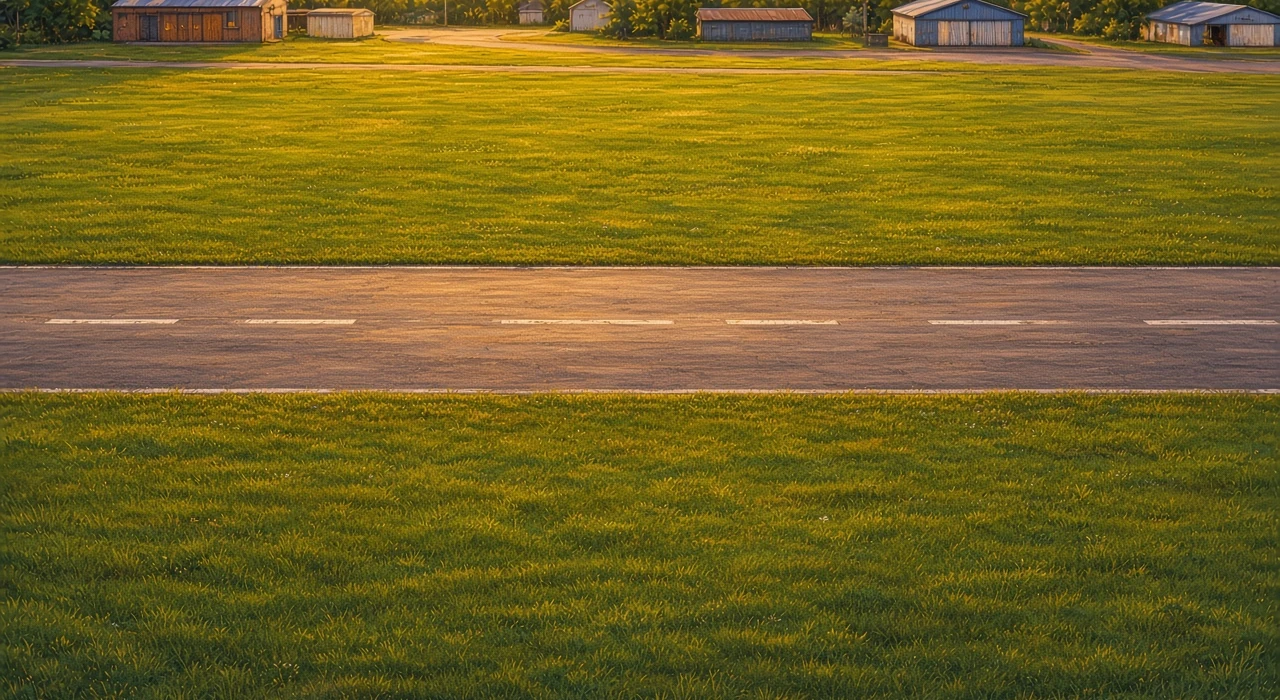
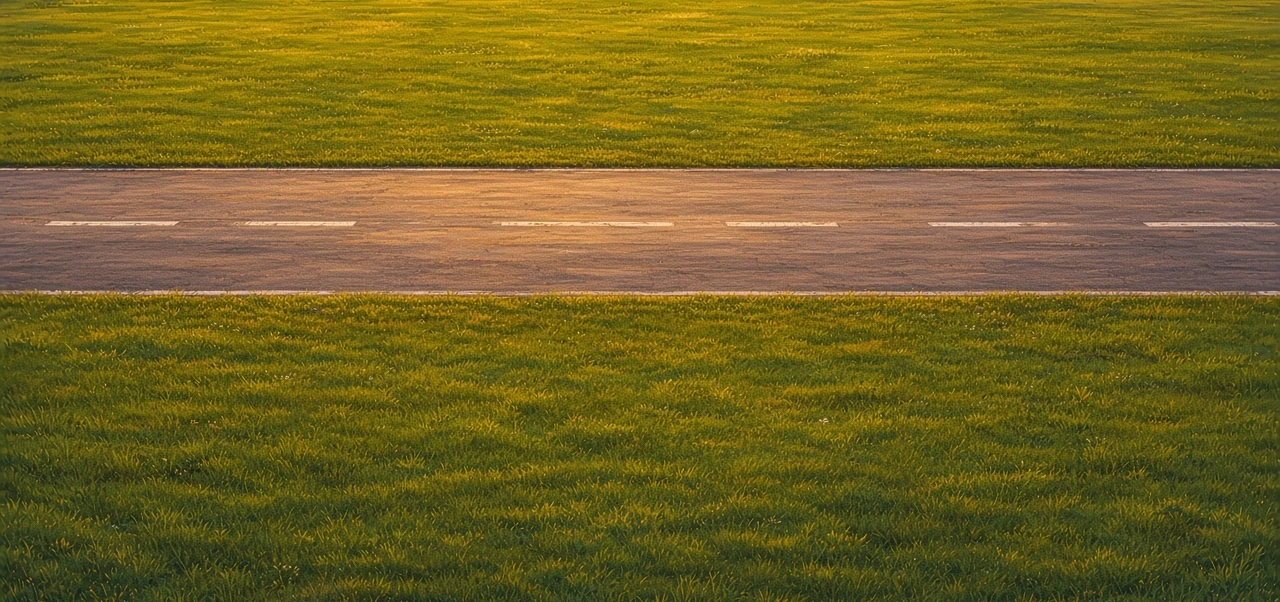
Long Island flight ground is a plain field and road, one town band only (flight13)
Claude-Session: https://claude.ai/code/session_01RXeukGxkt7RkvF3dmmX7V6

diff --git a/data/flight-art.js b/data/flight-art.js
@@ -1,4 +1,4 @@
 'use strict';
 // data/flight-art.js: GENERATED by tools/sprite-bake/bake_flight_lib.py from the approved Art Library pictures. Do not edit by hand.
 // Sizes and anchors for the painted flight scene (art/flight/*.webp). Drawn by engine/flight-art.js.
-const FLIGHT_ART_META={"v":"20261105c","files":{"cabin":"cabin.webp","skyLe":"sky-le.webp","skyLa":"sky-la.webp","skylineLe":"skyline-le.webp","skylineLa":"skyline-la.webp","foreLe":"fore-le.webp","foreLa":"fore-la.webp","groundLe":"ground-le.webp","groundLa":"ground-la.webp","plane":"plane.webp","props":"mapprops.webp","map":"usmap.webp"},"size":{"cabin":[1024,1024],"skyLe":[1024,1024],"skyLa":[1024,1024],"skylineLe":[1280,168],"skylineLa":[1280,160],"foreLe":[1280,211],"foreLa":[1280,146],"groundLe":[1280,700],"groundLa":[1280,653],"plane":[1196,417],"props":[1100,484],"map":[1248,832]},"sun":{"le":[0.504,0.305],"la":[0.506,0.766]},"runway":{"le":[0.45,0.6],"la":[0.45,0.6]},"plane":[{"ax":190,"ay":75.46681533397047,"sl":380,"w":380,"h":136,"bot":60.53318466602953,"x":2,"y":2},{"ax":196,"ay":66.08893709327549,"sl":392,"w":392,"h":135,"bot":68.91106290672451,"x":384,"y":2},{"ax":192,"ay":56.83717487840981,"sl":384,"w":384,"h":108,"bot":51.16282512159019,"x":778,"y":2},{"ax":190,"ay":73.45777351247601,"sl":380,"w":380,"h":132,"bot":58.54222648752399,"x":2,"y":140},{"ax":194,"ay":70.97705197993382,"sl":388,"w":388,"h":132,"bot":61.02294802006618,"x":384,"y":140},{"ax":198,"ay":56.972827804107425,"sl":396,"w":396,"h":104,"bot":47.027172195892575,"x":774,"y":140},{"ax":194,"ay":73.69800788091068,"sl":388,"w":388,"h":116,"bot":42.30199211908932,"x":2,"y":274},{"ax":198,"ay":55.017667472920394,"sl":396,"w":396,"h":104,"bot":48.982332527079606,"x":392,"y":274},{"ax":192,"ay":78.57334963325184,"sl":384,"w":384,"h":141,"bot":62.42665036674816,"x":790,"y":274}],"props":{"pinHome":[2,2,92,140],"pinAway":[96,2,92,140],"dot":[190,2,68,72],"star":[260,2,128,124],"planeLvl":[390,2,252,204],"planeB1":[644,2,212,176],"planeB2":[858,2,192,180],"smoke":[2,208,324,160],"puff":[328,208,72,48],"cloudA":[402,208,224,128],"cloudB":[628,208,180,132],"cloudC":[810,208,144,140],"cloudD":[2,370,172,112],"cloudE":[176,370,132,88],"cloudF":[310,370,96,64]},"map":{"w":1248,"h":832,"le":[1139,335],"la":[95,470],"ocean":"#014991","wave":"#1068bf"}};
+const FLIGHT_ART_META={"v":"20261105d","files":{"cabin":"cabin.webp","skyLe":"sky-le.webp","skyLa":"sky-la.webp","skylineLe":"skyline-le.webp","skylineLa":"skyline-la.webp","foreLe":"fore-le.webp","foreLa":"fore-la.webp","groundLe":"ground-le.webp","groundLa":"ground-la.webp","plane":"plane.webp","props":"mapprops.webp","map":"usmap.webp"},"size":{"cabin":[1024,1024],"skyLe":[1024,1024],"skyLa":[1024,1024],"skylineLe":[1280,168],"skylineLa":[1280,160],"foreLe":[1280,211],"foreLa":[1280,146],"groundLe":[1280,602],"groundLa":[1280,653],"plane":[1196,417],"props":[1100,484],"map":[1248,832]},"sun":{"le":[0.504,0.305],"la":[0.506,0.766]},"runway":{"le":[0.279,0.49],"la":[0.45,0.6]},"plane":[{"ax":190,"ay":75.46681533397047,"sl":380,"w":380,"h":136,"bot":60.53318466602953,"x":2,"y":2},{"ax":196,"ay":66.08893709327549,"sl":392,"w":392,"h":135,"bot":68.91106290672451,"x":384,"y":2},{"ax":192,"ay":56.83717487840981,"sl":384,"w":384,"h":108,"bot":51.16282512159019,"x":778,"y":2},{"ax":190,"ay":73.45777351247601,"sl":380,"w":380,"h":132,"bot":58.54222648752399,"x":2,"y":140},{"ax":194,"ay":70.97705197993382,"sl":388,"w":388,"h":132,"bot":61.02294802006618,"x":384,"y":140},{"ax":198,"ay":56.972827804107425,"sl":396,"w":396,"h":104,"bot":47.027172195892575,"x":774,"y":140},{"ax":194,"ay":73.69800788091068,"sl":388,"w":388,"h":116,"bot":42.30199211908932,"x":2,"y":274},{"ax":198,"ay":55.017667472920394,"sl":396,"w":396,"h":104,"bot":48.982332527079606,"x":392,"y":274},{"ax":192,"ay":78.57334963325184,"sl":384,"w":384,"h":141,"bot":62.42665036674816,"x":790,"y":274}],"props":{"pinHome":[2,2,92,140],"pinAway":[96,2,92,140],"dot":[190,2,68,72],"star":[260,2,128,124],"planeLvl":[390,2,252,204],"planeB1":[644,2,212,176],"planeB2":[858,2,192,180],"smoke":[2,208,324,160],"puff":[328,208,72,48],"cloudA":[402,208,224,128],"cloudB":[628,208,180,132],"cloudC":[810,208,144,140],"cloudD":[2,370,172,112],"cloudE":[176,370,132,88],"cloudF":[310,370,96,64]},"map":{"w":1248,"h":832,"le":[1139,335],"la":[95,470],"ocean":"#014991","wave":"#1068bf"}};

diff --git a/flight-preview.html b/flight-preview.html
@@ -56,7 +56,7 @@ function rect(x,y,w,h,color){ gfx.fillStyle=color; gfx.fillRect(Math.round(x),Ma
 function ellipse(x,y,rx,ry,color){ gfx.fillStyle=color; gfx.beginPath(); gfx.ellipse(x,y,rx,ry,0,0,Math.PI*2); gfx.fill(); }
 </script>
 <script src="data/font.js"></script>
-<script src="engine/flight-art.js?v=flight12"></script>
+<script src="engine/flight-art.js?v=flight13"></script>
 <script>
 'use strict';
 FLIGHT_ART.loading=true;   // stop the game's own loader (it would read art/flight/ on a timer); this page loads the art itself
@@ -155,7 +155,8 @@ function prepStrip(im,key,opts){
   const d=id.data; let t=0,b=h; const op=y=>{ for(let x=0;x<w;x+=2) if(d[(y*w+x)*4+3]>16) return true; return false; };
   while(t<h-1&&!op(t)) t++; while(b>t+1&&!op(b-1)) b--;
   let [pt,pb]=padRows(id,w,h); if(pt>=pb) pt=0,pb=h;
-  return cropRows(c,Math.max(t,pt),Math.min(b,pb));
+  const r0=Math.max(t,pt),r1=Math.min(b,pb);
+  return cropRows(c,opts&&opts.cropTop?r0+Math.round((r1-r0)*opts.cropTop):r0,r1);   // cropTop: drop the top fraction (Long Island ground: the painted hangar row, 2026-11-05)
 }
 // The runway band in a ground strip: the longest run of grey rows (low colour, mid brightness). Fractions of the strip height.
 function findRunway(c){
@@ -243,8 +244,8 @@ function prepare(raw,src){
   const imgs={},M={v:'preview',files:{},size:{},sun:{le:[.504,.305],la:[.506,.766]}};
   for(const k of ['cabin','skyLe','skyLa']) imgs[k]=asImg(canvasOf(raw[k]));
   for(const k of ['skylineLe','skylineLa','foreLe','foreLa']) imgs[k]=asImg(prepStrip(raw[k],true,(k==='skylineLa'||k==='skylineLe')?{gradient:true,cutGround:true}:null));
-  for(const k of ['groundLe','groundLa']) imgs[k]=asImg(prepStrip(raw[k],false));
-  M.runway={le:findRunway(imgs.groundLe),la:findRunway(imgs.groundLa)};
+  for(const k of ['groundLe','groundLa']) imgs[k]=asImg(prepStrip(raw[k],false,k==='groundLe'?{cropTop:.14}:null));
+  M.runway={le:[.279,.49],la:findRunway(imgs.groundLa)};   // LE: measured on the cropped strip (the warm sunset road is not grey, so findRunway falls back); LA: unchanged
   const P=prepPlane(raw.plane); imgs.plane=P.img; M.plane=P.meta;
   const Q=prepProps(raw.props); imgs.props=Q.img; M.props=Q.props;
   imgs.map=raw.map; const mw=raw.map.naturalWidth,mh=raw.map.naturalHeight,sp=MAP_SPOTS[src.map.file]||MAP_SPOTS['*'],oc=oceanOf(raw.map);

diff --git a/index.html b/index.html
@@ -1530,7 +1530,7 @@ document.addEventListener('click',function(e){var n=e.target.closest&&e.target.c
 <script src="engine/plate.js?v=hollow4"></script>
 <script src="engine/draw.js?v=scroll1"></script>
 <script src="engine/intro.js?v=size3"></script>
-<script src="data/flight-art.js?v=flight11"></script>
+<script src="data/flight-art.js?v=flight13"></script>
 <script src="engine/flight-art.js?v=flight11"></script>
 <script src="engine/travel.js?v=travel1"></script>
 <script src="engine/nara.js?v=freeze1"></script>
@@ -1576,7 +1576,7 @@ document.addEventListener('click',function(e){var n=e.target.closest&&e.target.c
 <script src="engine/local-clips.js?v=nobake1"></script>
 <script src="engine/dialog-auto.js"></script>
 <script src="engine/tapwalk.js?v=wind1"></script><!-- tap to walk -->
-<script src="engine/main.js?v=flight11"></script>
+<script src="engine/main.js?v=flight13"></script>
 <script src="engine/music.js"></script>
 <script src="data/songs.js"></script>
 <script src="engine/music-clips.js?v=music1"></script>

diff --git a/engine/main.js b/engine/main.js
@@ -83,7 +83,7 @@ startSplash();
 (function(){
   const sp=document.getElementById('splash'); if(!sp) return;
   const d=document.createElement('div');
-  d.textContent='build flight12';
+  d.textContent='build flight13';
   d.style.cssText='position:absolute;left:8px;bottom:4px;font:10px monospace;color:#fff;opacity:.45;pointer-events:none;z-index:50';
   sp.appendChild(d);
 })();

diff --git a/docs/CHANGES.md b/docs/CHANGES.md
@@ -1,3 +1,9 @@
+## 2026-11-05 (225): Long Island flight ground is a plain field and road, one town band only (`flight13`)
+- Tom (14:44, screenshot): two layers both showed half-cut houses, sliding in different directions and speeds. Cause (fact): the new skyline had the town, and the Long Island ground picture also carried its own row of hangars, sheds and trees along its top edge, which the mirrored tiling doubled.
+- Fix: flight-preview.html `prepStrip` takes `cropTop`; the Long Island ground drops its top 14 percent (the painted hangar row), so art/flight/ground-le.webp (now 1280x602) is only grass and the runway, like LA. LE runway band set by hand to `[.279,.49]` (the warm road is not grey, so `findRunway` falls back to its default); data/flight-art.js regenerated (`20261105d`).
+- Looked at: takeoff and landing, both directions, portrait and landscape; flight_test both ALL OK.
+- Tags: `flight13` (flight-preview.html by hand).
+
 ## 2026-11-05 (224): Mudling test card for a new enemy method, 2 x 2 grid over a soft underpainting (Art Library only, no game files, no tag)
 - Tom (14:35): the generator returns the sample as it was, or the result is not specific enough; he is happy with the enemy designs as they are, they just do not look handbrushed, are too pixelated and not high enough resolution.
 - Fact (looked at the approved pictures enemy-mudling v1 and enemy-grump v1, both 1280 x 720): the generator did not copy the old pixel sheet, it redesigned the creature (Mudling came out tall and upright instead of the squat mound, the Grump changed too) and painted it smooth. A 16:9 picture holding a row of 4 cells gives each pose only about 290 px of height. The same generator painted the single Mudling (test-mudling, 1024 x 1024, about 450 px tall) much richer, so the one-row layout is part of the resolution problem.
